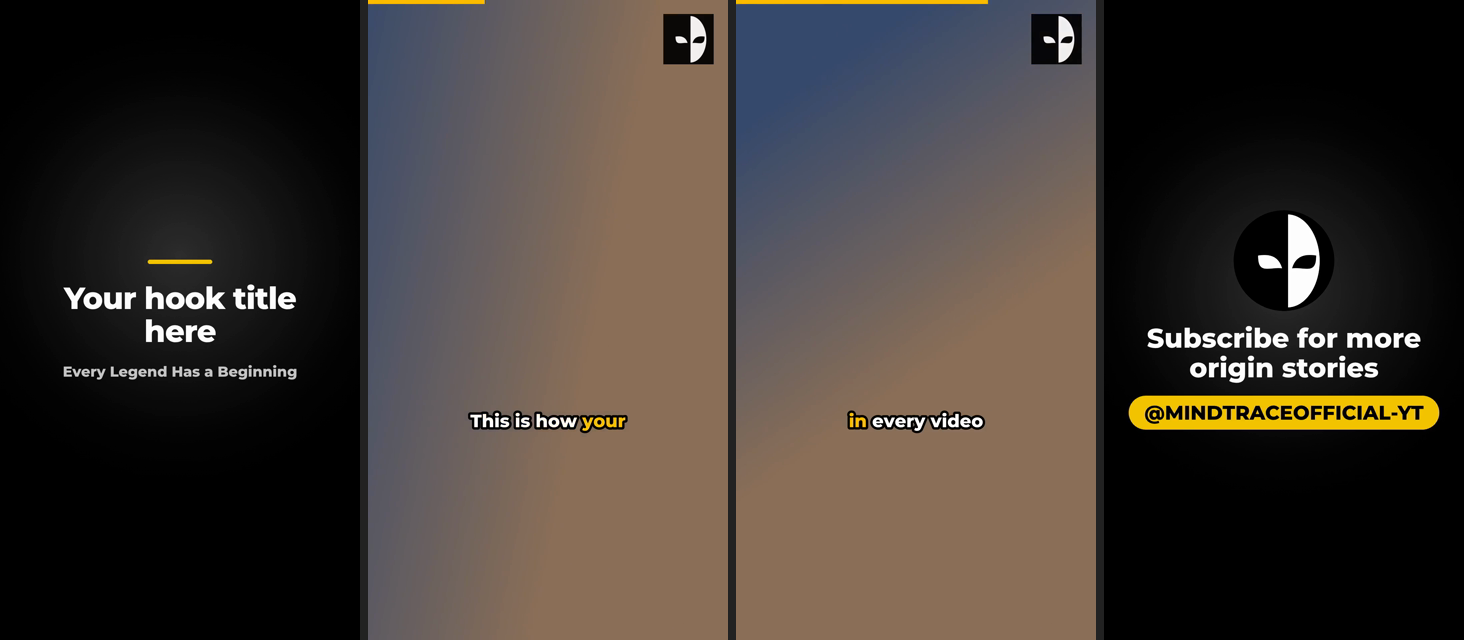
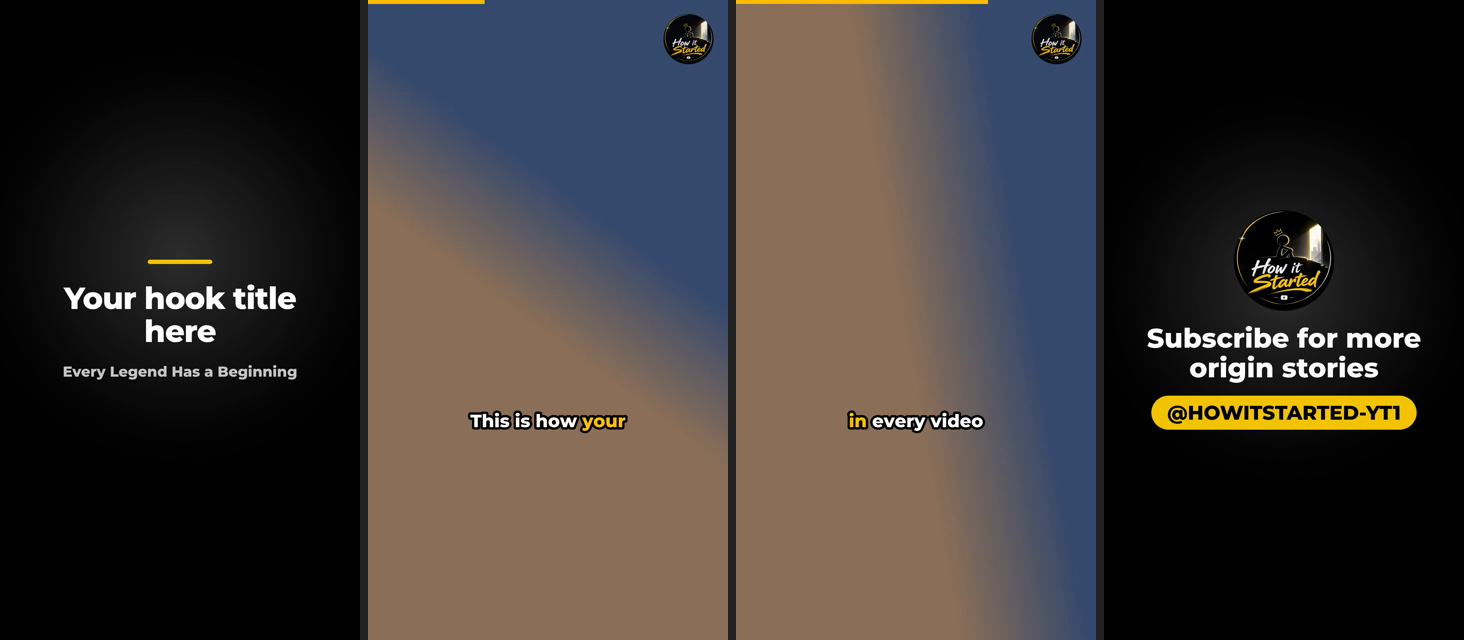
Two channels: How it Started (brand/) and MindTrace (brand/mindtrace/)
- restore the How it Started brand kit, logo, voice and app defaults
- new MindTrace kit: mask logo, @MINDTRACEOFFICIAL-YT, black/white/red,
  psychology voice.md, 'Subscribe to trace your mind', #MindTrace
- animated shorts pick their channel with meta.brandKit (engine fills
  logo, handle, tagline, outro); Ottoman -> How it Started, INKBLOT -> MindTrace
- schedule gets a Channel column; posts name their channel; MindTrace posts
  use MindTrace hashtags
- CLAUDE.md, edit-this / animated-short skills and publisher agent: pick the
  channel first (psychology -> MindTrace)

Claude-Session: https://claude.ai/code/session_016hu3y2LyTEGQWRo19jnDkH

Changed region(s): [[0.2459, 0.0, 0.9836, 1.0], [0.8299, 0.3125, 0.9221, 0.5]]

diff --git a/tests/edit-this.test.js b/tests/edit-this.test.js
@@ -92,8 +92,8 @@ const dark = c => c[0] < 60 && c[1] < 60 && c[2] < 60;
   try {
     await page.goto(PAGE);
     check('Edit this panel and tab shown', await page.isVisible('#editThisBox') && !!(await page.$('#topTabs button[data-go="editThisBox"]')));
-    check('brand kit filled with How it Started', (await page.inputValue('#etBrandHandle')) === '@MINDTRACEOFFICIAL-YT' &&
-      (await page.inputValue('#etBrandOutro')) === 'Subscribe to trace your mind');
+    check('brand kit filled with How it Started', (await page.inputValue('#etBrandHandle')) === '@HOWITSTARTED-YT1' &&
+      (await page.inputValue('#etBrandOutro')) === 'Subscribe for more origin stories');
     await page.click('#etRun');
     check('asks for a video first', /Import a video first/.test(await page.textContent('#etLog')));
 
@@ -160,7 +160,7 @@ const dark = c => c[0] < 60 && c[1] < 60 && c[2] < 60;
 
     // Post text, thumbnail, schedule
     const post = await page.inputValue('#etPost');
-    check('post text: hook title, CTA and brand hashtags', /^# In 1908 Henry Ford started selling/.test(post) && /Subscribe to trace your mind\./.test(post) && /#HowItStarted/.test(post));
+    check('post text: hook title, CTA and brand hashtags', /^# In 1908 Henry Ford started selling/.test(post) && /Subscribe for more origin stories\./.test(post) && /#HowItStarted/.test(post));
     check('post text: B-roll credit', /B-roll: Jane Photo, CC BY-SA 4\.0, via Wikimedia Commons/.test(post));
     check('post text: ET time with PHT next to it', /7:00 PM ET \([A-Z][a-z]{2}, [A-Z][a-z]{2} \d+, 8:00 AM PHT\)/.test(post), post.match(/.*PHT.*/)?.[0]);
     check('post text says posting is the owner\'s decision', /Posting is your decision/.test(post));

diff --git a/index.html b/index.html
@@ -4894,8 +4894,8 @@ if("IntersectionObserver" in window){
 
 const BRAND_KEY="aves.brand", SCHED_KEY="aves.schedule", ET_KEY="aves.editThis";
 // From brand/brand.json and brand/voice.md (How it Started).
-const BRAND_DEFAULT={name:"How it Started",handle:"@MINDTRACEOFFICIAL-YT",tagline:"Every Legend Has a Beginning",
- outro:"Subscribe to trace your mind",accent:"#f5c400",bg:"#000000",text:"#ffffff",highlight:"#f5c400",
+const BRAND_DEFAULT={name:"How it Started",handle:"@HOWITSTARTED-YT1",tagline:"Every Legend Has a Beginning",
+ outro:"Subscribe for more origin stories",accent:"#f5c400",bg:"#000000",text:"#ffffff",highlight:"#f5c400",
  hashtags:"#HowItStarted #EveryLegendHasABeginning",logo:""};
 const ET_PLATFORMS={shorts:{ratio:"9:16",max:60,name:"Shorts / Reels"},tiktok:{ratio:"9:16",max:90,name:"TikTok"},
  youtube:{ratio:"16:9",max:0,name:"YouTube"},feed:{ratio:"1:1",max:60,name:"Feed post"}};

diff --git a/stickman.html b/stickman.html
@@ -108,7 +108,7 @@ Tap an action to add a line:</p>
 <label for="style">Character</label>
 <select id="style"><option value="signature">Signature (gold scarf, minimalist)</option><option value="classic">Classic stick figure</option></select>
 <label for="handle">Watermark (empty = none)</label>
-<input id="handle" value="@MINDTRACEOFFICIAL-YT">
+<input id="handle" value="@HOWITSTARTED-YT1">
 <label for="capSize">Caption size <span id="capSizeVal"></span></label>
 <input id="capSize" type="range" min="0.6" max="1.6" step="0.05" value="1">
 </section>
@@ -247,7 +247,7 @@ function directStory(text){
   lines.push(act+": "+s);
  });
  if(lines.length && /\b(subscribe|follow)\b/i.test(sents[sents.length-1]||"")===false && sents.length>2){
-  lines.push("wave: Subscribe to trace your mind");
+  lines.push("wave: Subscribe for more origin stories");
  }
  return lines.join("\n");
 }

diff --git a/content/schedule.md b/content/schedule.md
@@ -3,32 +3,38 @@
 Maintained by the `publisher` agent. Status: planned / ready / posted.
 Only the owner marks a video as posted.
 
+**Two channels:** How it Started (@HOWITSTARTED-YT1, origin stories, brand kit
+`brand/`) and MindTrace (@MINDTRACEOFFICIAL-YT, psychology, brand kit
+`brand/mindtrace/`). The Channel column says which account to post from.
+The two channels may post at the same time; one channel never posts twice
+on the same platform in the same slot.
+
 **Target audience: United States.** Times are US Eastern Time (ET); the
 owner's Philippine time (PHT) is shown next to them. PHT = ET + 13 h
 (November–March; + 12 h from mid-March to early November, US daylight saving).
 
-| Date (ET) | Time (ET) | Owner's time (PHT) | Platform | Title | Post file | Status |
-|---|---|---|---|---|---|---|
-| 2026-11-21 Sat | 7:00 PM | Sun Nov 22, 8:00 AM | YouTube Shorts | Why Starting Feels Impossible (Try the 2-Minute Rule) | content/posts/2026-11-20-two-minute-rule.md | ready |
-| 2026-11-21 Sat | 8:00 PM | Sun Nov 22, 9:00 AM | TikTok | Why does starting feel so impossible? | content/posts/2026-11-20-two-minute-rule.md | ready |
-| 2026-11-22 Sun | 7:00 PM | Mon Nov 23, 8:00 AM | Instagram Reels | Your brain resists starting | content/posts/2026-11-20-two-minute-rule.md | ready |
-| 2026-11-22 Sun | 8:00 PM | Mon Nov 23, 9:00 AM | Facebook Reels | Why does starting any task feel so hard? | content/posts/2026-11-20-two-minute-rule.md | ready |
-| 2026-11-23 Mon | 7:00 PM | Tue Nov 24, 8:00 AM | YouTube Shorts | Bubble Wrap Was Meant to Be Wallpaper | content/posts/2026-11-21-bubble-wrap-ottoman.md | ready |
-| 2026-11-23 Mon | 8:00 PM | Tue Nov 24, 9:00 AM | TikTok | This was supposed to go on your walls | content/posts/2026-11-21-bubble-wrap-ottoman.md | ready |
-| 2026-11-24 Tue | 7:00 PM | Wed Nov 25, 8:00 AM | Instagram Reels | This was supposed to be wallpaper | content/posts/2026-11-21-bubble-wrap-ottoman.md | ready |
-| 2026-11-24 Tue | 8:00 PM | Wed Nov 25, 9:00 AM | Facebook Reels | Bubble wrap was meant to be wallpaper | content/posts/2026-11-21-bubble-wrap-ottoman.md | ready |
-| 2026-11-25 Wed | 7:00 PM | Thu Nov 26, 8:00 AM | YouTube Shorts | This Glue Was a Failure. Now It's on Every Desk | content/posts/2026-11-21-post-it-notes-ottoman.md | ready |
-| 2026-11-25 Wed | 8:00 PM | Thu Nov 26, 9:00 AM | TikTok | This glue was a failure. Now it's on desks everywhere. | content/posts/2026-11-21-post-it-notes-ottoman.md | ready |
-| 2026-11-27 Fri | 7:00 PM | Sat Nov 28, 8:00 AM | Instagram Reels | A glue so weak it peeled right off | content/posts/2026-11-21-post-it-notes-ottoman.md | ready |
-| 2026-11-27 Fri | 8:00 PM | Sat Nov 28, 9:00 AM | Facebook Reels | This glue was a failure. Now it's on desks everywhere. | content/posts/2026-11-21-post-it-notes-ottoman.md | ready |
-| 2026-11-28 Sat | 7:00 PM | Sun Nov 29, 8:00 AM | YouTube Shorts | Your Brain Is Keeping a To-Do List You Never Wrote | content/posts/2026-11-23-zeigarnik-effect-inkblot.md | ready |
-| 2026-11-28 Sat | 8:00 PM | Sun Nov 29, 9:00 AM | TikTok | Your brain is keeping a to-do list you never wrote | content/posts/2026-11-23-zeigarnik-effect-inkblot.md | ready |
-| 2026-11-29 Sun | 7:00 PM | Mon Nov 30, 8:00 AM | Instagram Reels | Why that unanswered text bugs you at night | content/posts/2026-11-23-zeigarnik-effect-inkblot.md | ready |
-| 2026-11-29 Sun | 8:00 PM | Mon Nov 30, 9:00 AM | Facebook Reels | Your brain is keeping a to-do list you never wrote | content/posts/2026-11-23-zeigarnik-effect-inkblot.md | ready |
-| 2026-11-30 Mon | 7:00 PM | Tue Dec 1, 8:00 AM | YouTube Shorts | One Word Makes People Say Yes (The Copy Machine Study) | content/posts/2026-11-23-because-copy-machine-inkblot.md | ready |
-| 2026-11-30 Mon | 8:00 PM | Tue Dec 1, 9:00 AM | TikTok | One word makes people say yes, and it's not please | content/posts/2026-11-23-because-copy-machine-inkblot.md | ready |
-| 2026-12-01 Tue | 7:00 PM | Wed Dec 2, 8:00 AM | Instagram Reels | The tiny word that makes people say yes | content/posts/2026-11-23-because-copy-machine-inkblot.md | ready |
-| 2026-12-01 Tue | 8:00 PM | Wed Dec 2, 9:00 AM | Facebook Reels | One word makes people say yes, and it's not please | content/posts/2026-11-23-because-copy-machine-inkblot.md | ready |
+| Date (ET) | Time (ET) | Owner's time (PHT) | Channel | Platform | Title | Post file | Status |
+|---|---|---|---|---|---|---|---|
+| 2026-11-21 Sat | 7:00 PM | Sun Nov 22, 8:00 AM | How it Started | YouTube Shorts | Why Starting Feels Impossible (Try the 2-Minute Rule) | content/posts/2026-11-20-two-minute-rule.md | ready |
+| 2026-11-21 Sat | 8:00 PM | Sun Nov 22, 9:00 AM | How it Started | TikTok | Why does starting feel so impossible? | content/posts/2026-11-20-two-minute-rule.md | ready |
+| 2026-11-22 Sun | 7:00 PM | Mon Nov 23, 8:00 AM | How it Started | Instagram Reels | Your brain resists starting | content/posts/2026-11-20-two-minute-rule.md | ready |
+| 2026-11-22 Sun | 8:00 PM | Mon Nov 23, 9:00 AM | How it Started | Facebook Reels | Why does starting any task feel so hard? | content/posts/2026-11-20-two-minute-rule.md | ready |
+| 2026-11-23 Mon | 7:00 PM | Tue Nov 24, 8:00 AM | How it Started | YouTube Shorts | Bubble Wrap Was Meant to Be Wallpaper | content/posts/2026-11-21-bubble-wrap-ottoman.md | ready |
+| 2026-11-23 Mon | 8:00 PM | Tue Nov 24, 9:00 AM | How it Started | TikTok | This was supposed to go on your walls | content/posts/2026-11-21-bubble-wrap-ottoman.md | ready |
+| 2026-11-24 Tue | 7:00 PM | Wed Nov 25, 8:00 AM | How it Started | Instagram Reels | This was supposed to be wallpaper | content/posts/2026-11-21-bubble-wrap-ottoman.md | ready |
+| 2026-11-24 Tue | 8:00 PM | Wed Nov 25, 9:00 AM | How it Started | Facebook Reels | Bubble wrap was meant to be wallpaper | content/posts/2026-11-21-bubble-wrap-ottoman.md | ready |
+| 2026-11-25 Wed | 7:00 PM | Thu Nov 26, 8:00 AM | How it Started | YouTube Shorts | This Glue Was a Failure. Now It's on Every Desk | content/posts/2026-11-21-post-it-notes-ottoman.md | ready |
+| 2026-11-25 Wed | 8:00 PM | Thu Nov 26, 9:00 AM | How it Started | TikTok | This glue was a failure. Now it's on desks everywhere. | content/posts/2026-11-21-post-it-notes-ottoman.md | ready |
+| 2026-11-27 Fri | 7:00 PM | Sat Nov 28, 8:00 AM | How it Started | Instagram Reels | A glue so weak it peeled right off | content/posts/2026-11-21-post-it-notes-ottoman.md | ready |
+| 2026-11-27 Fri | 8:00 PM | Sat Nov 28, 9:00 AM | How it Started | Facebook Reels | This glue was a failure. Now it's on desks everywhere. | content/posts/2026-11-21-post-it-notes-ottoman.md | ready |
+| 2026-11-28 Sat | 7:00 PM | Sun Nov 29, 8:00 AM | MindTrace | YouTube Shorts | Your Brain Is Keeping a To-Do List You Never Wrote | content/posts/2026-11-23-zeigarnik-effect-inkblot.md | ready |
+| 2026-11-28 Sat | 8:00 PM | Sun Nov 29, 9:00 AM | MindTrace | TikTok | Your brain is keeping a to-do list you never wrote | content/posts/2026-11-23-zeigarnik-effect-inkblot.md | ready |
+| 2026-11-29 Sun | 7:00 PM | Mon Nov 30, 8:00 AM | MindTrace | Instagram Reels | Why that unanswered text bugs you at night | content/posts/2026-11-23-zeigarnik-effect-inkblot.md | ready |
+| 2026-11-29 Sun | 8:00 PM | Mon Nov 30, 9:00 AM | MindTrace | Facebook Reels | Your brain is keeping a to-do list you never wrote | content/posts/2026-11-23-zeigarnik-effect-inkblot.md | ready |
+| 2026-11-30 Mon | 7:00 PM | Tue Dec 1, 8:00 AM | MindTrace | YouTube Shorts | One Word Makes People Say Yes (The Copy Machine Study) | content/posts/2026-11-23-because-copy-machine-inkblot.md | ready |
+| 2026-11-30 Mon | 8:00 PM | Tue Dec 1, 9:00 AM | MindTrace | TikTok | One word makes people say yes, and it's not please | content/posts/2026-11-23-because-copy-machine-inkblot.md | ready |
+| 2026-12-01 Tue | 7:00 PM | Wed Dec 2, 8:00 AM | MindTrace | Instagram Reels | The tiny word that makes people say yes | content/posts/2026-11-23-because-copy-machine-inkblot.md | ready |
+| 2026-12-01 Tue | 8:00 PM | Wed Dec 2, 9:00 AM | MindTrace | Facebook Reels | One word makes people say yes, and it's not please | content/posts/2026-11-23-because-copy-machine-inkblot.md | ready |
 
 Times are general guidance for US viewers (evenings ET are the busiest), not
 based on the channel's own analytics. Once the channel has data, use the

diff --git a/content/posts/2026-11-23-because-copy-machine-inkblot.md b/content/posts/2026-11-23-because-copy-machine-inkblot.md
@@ -1,5 +1,6 @@
 # One Word Makes People Say Yes — The Magic Word "Because", INKBLOT short
 
+- **Channel:** MindTrace (@MINDTRACEOFFICIAL-YT) — brand kit `brand/mindtrace/`
 - **Video:** `animate/projects/because-copy-machine/out/because-copy-machine-inkblot.mp4`
   (64 s, 9:16, 1080x1920, @MINDTRACEOFFICIAL-YT mask logo, voice-over by the owner
   (ElevenLabs voice "Bradford"), end card: case-file cover with the logo, stamped
@@ -44,22 +45,22 @@
 In 1978, psychologist Ellen Langer asked people to cut in line at a copy machine, three different ways. One tiny word pushed a 60% yes up to 94%. Even a reason that was no reason at all got 93%.
 Why does your brain fall for "because", and when does it stop working? Source: Langer, Blank & Chanowitz (1978), Journal of Personality and Social Psychology. Animated in code in an ink blot case-file style.
 Subscribe to trace your mind.
-**Hashtags:** #Psychology #MindTricks #PsychologyFacts #Persuasion #SocialPsychology #shorts
+**Hashtags:** #MindTrace #Psychology #MindTricks #PsychologyFacts #Persuasion #SocialPsychology #shorts
 
 ## TikTok
 **Caption:**
 One word makes people say yes, and it's not please. 🧠 A 1978 copy machine study: 60% said yes with no reason, 94% with a real one, and 93% with a reason that meant nothing. The catch? It fails on big favors.
 Subscribe to trace your mind 👇
-**Hashtags:** #Psychology #MindTricks #PsychologyFacts #Persuasion #LifeHacks #learnontiktok
+**Hashtags:** #MindTrace #Psychology #MindTricks #PsychologyFacts #Persuasion #LifeHacks #learnontiktok
 
 ## Instagram Reels
 **Caption:**
 The tiny word that makes people say yes. 🧠
 In 1978, psychologist Ellen Langer tested it at a busy copy machine. "May I use the copy machine?" got 60% yes. Add "because I'm in a rush" and it jumped to 94%. Add "because I have to make copies" (a reason that says nothing) and it still got 93%. Your brain runs on autopilot: it hears "because" and stops checking. But for a big favor (20 pages), the empty "because" did nothing.
 Small favor? Say because. Big favor? Bring a real reason. Save this for your next ask. Animated in code in an ink blot case-file style. Subscribe to trace your mind.
-**Hashtags:** #Psychology #MindTricks #PsychologyFacts #Persuasion #SocialPsychology #Animation
+**Hashtags:** #MindTrace #Psychology #MindTricks #PsychologyFacts #Persuasion #SocialPsychology #Animation
 
 ## Facebook Reels
 **Caption:**
 One word makes people say yes, and it's not please. 🧠 Here is the 1978 copy machine study behind "because", and the catch: it only works on small favors.
-Follow @MINDTRACEOFFICIAL-YT to trace your mind. #Psychology #MindTricks #PsychologyFacts #Persuasion
+Follow @MINDTRACEOFFICIAL-YT to trace your mind. #MindTrace #Psychology #MindTricks #PsychologyFacts #Persuasion

diff --git a/brand/mindtrace/voice.md b/brand/mindtrace/voice.md
@@ -1,0 +1,54 @@
+# Brand voice — MindTrace
+
+**Why You Think What You Think.** The channel explains the human mind: the
+psychology experiments, biases, habits and brain quirks behind everyday
+behavior — where the idea came from, what the study really found, and one
+thing you can do with it.
+
+Used by the publisher agent, the "edit this" workflow and the animated-short
+skill (INKBLOT style) when writing hook titles, descriptions, hashtags and
+comment replies. Edit freely.
+
+## Audience
+- **Target market: the United States.** Curious US viewers (about 16–34:
+  students, young workers, self-improvers) who love "why does my brain do
+  that?" moments, mind tricks and surprising studies.
+- Topics: famous experiments, cognitive biases, persuasion, habits and
+  procrastination, memory, emotions, relationships, sleep and dreams, dark
+  psychology (explained, never taught as manipulation).
+- Language: **US English only** (American spelling: "color", "behavior").
+  No Tagalog in titles, captions, descriptions or hashtags.
+- Posting times: plan in **US Eastern Time (ET)** and also show the owner's
+  Philippine time (PHT = ET + 13 hours; + 12 hours after US daylight saving
+  starts in March). The owner posts by hand from the Philippines.
+
+## Tone
+- A sharp friend who reads the studies so you don't have to: curious,
+  a little mysterious, never preachy. Case-file feel ("the study", "the catch").
+- Short sentences. One idea per sentence.
+- Use "you". Explain any technical word in a few words.
+
+## Hook titles (intro card, max ~40 characters)
+- Lead with the surprising effect on *you*: "Your brain keeps a hidden list",
+  "One word makes people say yes", "Why you remember the bad day".
+- Curiosity first, no spoilers. No clickbait the video doesn't deliver.
+
+## Descriptions
+- 1–3 short lines: the effect, the study behind it, one thing to try; then a
+  call to action.
+- Calls to action to rotate: "Subscribe to trace your mind",
+  "Which mind trick should we trace next? Comment below",
+  "Follow for more mind tricks."
+- Name the study (researcher + year) so it can be checked; the researcher
+  agent keeps sources. Mention when later research found mixed results.
+
+## Hashtags
+- 3–8 per post: 2–3 broad (#Psychology, #PsychologyFacts, #MindTricks),
+  2–3 specific to the topic, plus the brand hashtags from `brand.json`.
+
+## Never
+- Never invent studies, numbers or quotes. Never overstate a finding
+  ("proves", "always") — say what the study found.
+- No medical or mental-health diagnosis or treatment advice.
+- Never teach manipulation; explain it so viewers can spot it.
+- Never use music, clips or logos you don't have the right to use.

diff --git a/content/posts/2026-11-23-zeigarnik-effect-inkblot.md b/content/posts/2026-11-23-zeigarnik-effect-inkblot.md
@@ -1,5 +1,6 @@
 # Your Brain Is Keeping a To-Do List — The Zeigarnik Effect, INKBLOT short
 
+- **Channel:** MindTrace (@MINDTRACEOFFICIAL-YT) — brand kit `brand/mindtrace/`
 - **Video:** `animate/projects/zeigarnik-effect/out/zeigarnik-effect-inkblot.mp4`
   (53 s, 9:16, 1080x1920, @MINDTRACEOFFICIAL-YT brand and mask logo, AI narration voice, end card
   stamped "CASE: OPEN" and "Subscribe to trace your mind")
@@ -44,22 +45,22 @@
 Why does an unfinished task keep nagging you? The story goes it began in a Berlin café in the 1920s, with a waiter who forgot an order the moment the bill was paid.
 Meet Bluma Zeigarnik, who tested it, and learn the trick for when you can't start. Animated in code in an ink blot case-file style.
 Subscribe to trace your mind.
-**Hashtags:** #HowItStarted #EveryLegendHasABeginning #ZeigarnikEffect #Psychology #OriginStory #shorts
+**Hashtags:** #MindTrace #Psychology #ZeigarnikEffect #PsychologyFacts #Procrastination #shorts
 
 ## TikTok
 **Caption:**
 Your brain is keeping a to-do list you never wrote. 🧠 The Zeigarnik effect, from a Berlin café story to a 1927 paper. Can't start something? Just start it.
 Which habit should we trace back next? Comment below 👇
-**Hashtags:** #HowItStarted #EveryLegendHasABeginning #zeigarnikeffect #psychologyfacts #originstory #learnontiktok
+**Hashtags:** #MindTrace #Psychology #zeigarnikeffect #psychologyfacts #procrastination #learnontiktok
 
 ## Instagram Reels
 **Caption:**
 Why does that unanswered text bug you at night? 🧠
 The story goes that psychologist Kurt Lewin noticed a waiter remember a huge order, then forget it once the bill was paid. His student, Bluma Zeigarnik, tested it and published her results in 1927: interrupted tasks were remembered almost twice as well. An unfinished task stays open in your mind, like a tab you can't close.
 Animated in code in an ink blot case-file style. Save this for the next time you can't start. Subscribe to trace your mind.
-**Hashtags:** #HowItStarted #EveryLegendHasABeginning #ZeigarnikEffect #Psychology #PsychologyFacts #Animation
+**Hashtags:** #MindTrace #Psychology #ZeigarnikEffect #PsychologyFacts #Animation
 
 ## Facebook Reels
 **Caption:**
 Your brain is keeping a to-do list you never wrote. 🧠 Here is the story behind the Zeigarnik effect, and the trick for when you can't start: just start it.
-Follow @MINDTRACEOFFICIAL-YT to trace your mind. #HowItStarted #EveryLegendHasABeginning #ZeigarnikEffect #Psychology
+Follow @MINDTRACEOFFICIAL-YT to trace your mind. #MindTrace #Psychology #ZeigarnikEffect

diff --git a/CLAUDE.md b/CLAUDE.md
@@ -107,13 +107,24 @@ submodules, `pipeline/` and `google-flow-mcp/` out (Settings → Pages → Sourc
 GitHub Actions). Never switch Pages back to "Deploy from a branch": the default
 builder downloads the submodules and fails.
 
-## Brand kit
-`brand/brand.json` (name, @handle, colours, caption style, intro, outro,
-watermark, music volume, hashtags), `brand/voice.md` (how posts sound),
-`brand/logo.png` (optional; otherwise an initials logo is made),
-`brand/music/` (licensed songs). The pipeline applies it automatically
-(`--no-brand` turns it off). Preview: `node pipeline/brand-preview.mjs` →
-`brand/preview.png`. All writing must follow `brand/voice.md`.
+## Brand kits — the owner has TWO channels
+| Channel | Niche | Brand kit | Animated style |
+|---|---|---|---|
+| **How it Started** (@HOWITSTARTED-YT1) | origin stories | `brand/` | OTTOMAN |
+| **MindTrace** (@MINDTRACEOFFICIAL-YT) | psychology | `brand/mindtrace/` | INKBLOT |
+
+Each kit has `brand.json` (name, @handle, colours, caption style, intro, outro,
+watermark, music volume, hashtags), `voice.md` (how posts sound), `logo.png`
+and `preview.png`; `brand/music/` (licensed songs) is shared. Pick the channel
+from what the owner says ("for MindTrace", "for How it Started"); if they don't
+say, psychology/mind topics → MindTrace, everything else → How it Started, and
+say which one you used. Never mix the two channels' handles, logos, calls to
+action or hashtags in one video or post. The pipeline uses `brand/brand.json`
+unless given `--brand brand/mindtrace/brand.json` (`--no-brand` turns it off);
+animated shorts pick the kit with `meta.brandKit` ('' or 'mindtrace').
+Preview: `node pipeline/brand-preview.mjs [--brand <kit>/brand.json]` →
+`<kit>/preview.png`. All writing must follow that channel's `voice.md`.
+The phone app's built-in brand defaults are How it Started.
 Publishing target: **US audience** — US English, US Eastern Time posting
 schedule (with the owner's Philippine time shown next to it).
 

diff --git a/.claude/skills/animated-short/SKILL.md b/.claude/skills/animated-short/SKILL.md
@@ -17,6 +17,10 @@ below without asking questions you can answer yourself:
   `.txt`) → make the voice with `voice.mjs` (step 2b). Neither → ask in one line.
 - **Script** = the text the owner pasted, if any (use it to fix the spelling
   of names); otherwise the transcript.
+- **Channel** = the one the owner names; else INKBLOT → MindTrace
+  (`meta.brandKit: 'mindtrace'`, `brand/mindtrace/`), OTTOMAN → How it Started
+  (`meta.brandKit: ''`, `brand/`). The kit supplies the logo, handle, tagline
+  and outro line; never hard-code them in the story.
 - **Finish the whole job**: render → check → send the MP4 → publisher agent
   writes post copy + schedule rows (step 7) → commit and push.
 
@@ -87,8 +91,10 @@ Check facts (dates, names) — the brand is "dramatic but true" (`brand/voice.md
 ## 4. Write `story.mjs`
 Start from `projects/bubble-wrap/story.mjs`. It exports:
 - `meta` — title, slug, `style: 'ottoman'` or `'inkblot'`, 1080×1920, 30 fps, `duration`
-  (voice end + ~2.5 s for the outro), `voice`, `brand` (handle + logo from
-  `brand/brand.json`), `outro` (call to action shown in the caption panel).
+  (voice end + ~2.5 s for the outro), `voice`, `brandKit` ('' = How it
+  Started, 'mindtrace' = MindTrace: logo, handle, tagline and outro text come
+  from that kit), `outro: { at }` (when the call to action types into the
+  caption panel; `text` only to override the kit's).
 - `scenes` — `{ start, title, trans, draw(ctx, u, S) }`. `u` = seconds into
   the scene. `S.at('word')` = when that word is spoken (sync moments to it).
   `S.cam(zoom, cx, cy)` = camera. `S.k` = the style kit, `S.P` = palette,

diff --git a/.claude/skills/edit-this/SKILL.md b/.claude/skills/edit-this/SKILL.md
@@ -35,8 +35,14 @@ command -v ffmpeg && node -v          # needs ffmpeg and Node 22+
 [ -d pipeline/node_modules ] || (cd pipeline && npm ci)
 ```
 
-## 3. Use the brand kit
-The pipeline reads `brand/brand.json` automatically: brand colours, caption
+## 3. Use the brand kit — pick the channel first
+The owner has two channels (see CLAUDE.md → Brand kits): **How it Started**
+(`brand/`, origin stories) and **MindTrace** (`brand/mindtrace/`, psychology).
+Use the one the owner names; if they don't say, psychology/mind topics →
+MindTrace (add `--brand brand/mindtrace/brand.json` to every pipeline command
+and read `brand/mindtrace/voice.md`), everything else → How it Started. Tell
+the owner which channel you used.
+The pipeline reads `brand/brand.json` (How it Started) by default: brand colours, caption
 style, logo watermark and the outro card with the owner's @handle. Read
 `brand/voice.md` before writing any title, description or hashtag, and add
 `hashtags` from `brand.json` to every post. If `brand.json` has no `name` and

diff --git a/.claude/agents/publisher.md b/.claude/agents/publisher.md
@@ -6,8 +6,13 @@ model: sonnet
 ---
 You are the publisher.
 
-Before writing, read `brand/voice.md` (tone, audience, languages, calls to
-action) and `brand/brand.json` (name, @handle, brand hashtags).
+The owner has two channels: **How it Started** (brand kit `brand/`) and
+**MindTrace** (brand kit `brand/mindtrace/`, psychology). First decide which
+channel the video is for (you'll be told; psychology → MindTrace). Then read
+that kit's `voice.md` (tone, audience, languages, calls to action) and
+`brand.json` (name, @handle, brand hashtags). Never use the other channel's
+handle, call to action or hashtags. Put `- **Channel:** …` at the top of the
+post file and fill the Channel column of content/schedule.md.
 
 For each finished video:
 1. Write per-platform metadata (YouTube, YouTube Shorts, TikTok, Instagram

diff --git a/brand/README.md b/brand/README.md
@@ -1,4 +1,17 @@
-# Brand kit
+# Brand kits
+
+The owner has **two channels**, each with its own kit:
+
+| Channel | Folder | Look |
+|---|---|---|
+| How it Started (@HOWITSTARTED-YT1) — origin stories | `brand/` (this folder) | black + yellow, Ottoman animated shorts |
+| MindTrace (@MINDTRACEOFFICIAL-YT) — psychology | `brand/mindtrace/` | black + white + red, INKBLOT animated shorts |
+
+Both folders have the same files (`brand.json`, `voice.md`, `logo.png`,
+`preview.png`). Tell Claude which channel a video is for ("edit this for
+MindTrace"); psychology topics go to MindTrace by default.
+
+## How it Started
 
 Everything here makes every "edit this" video and post look and sound like
 **your** channel. Change it once; every new video follows it.
